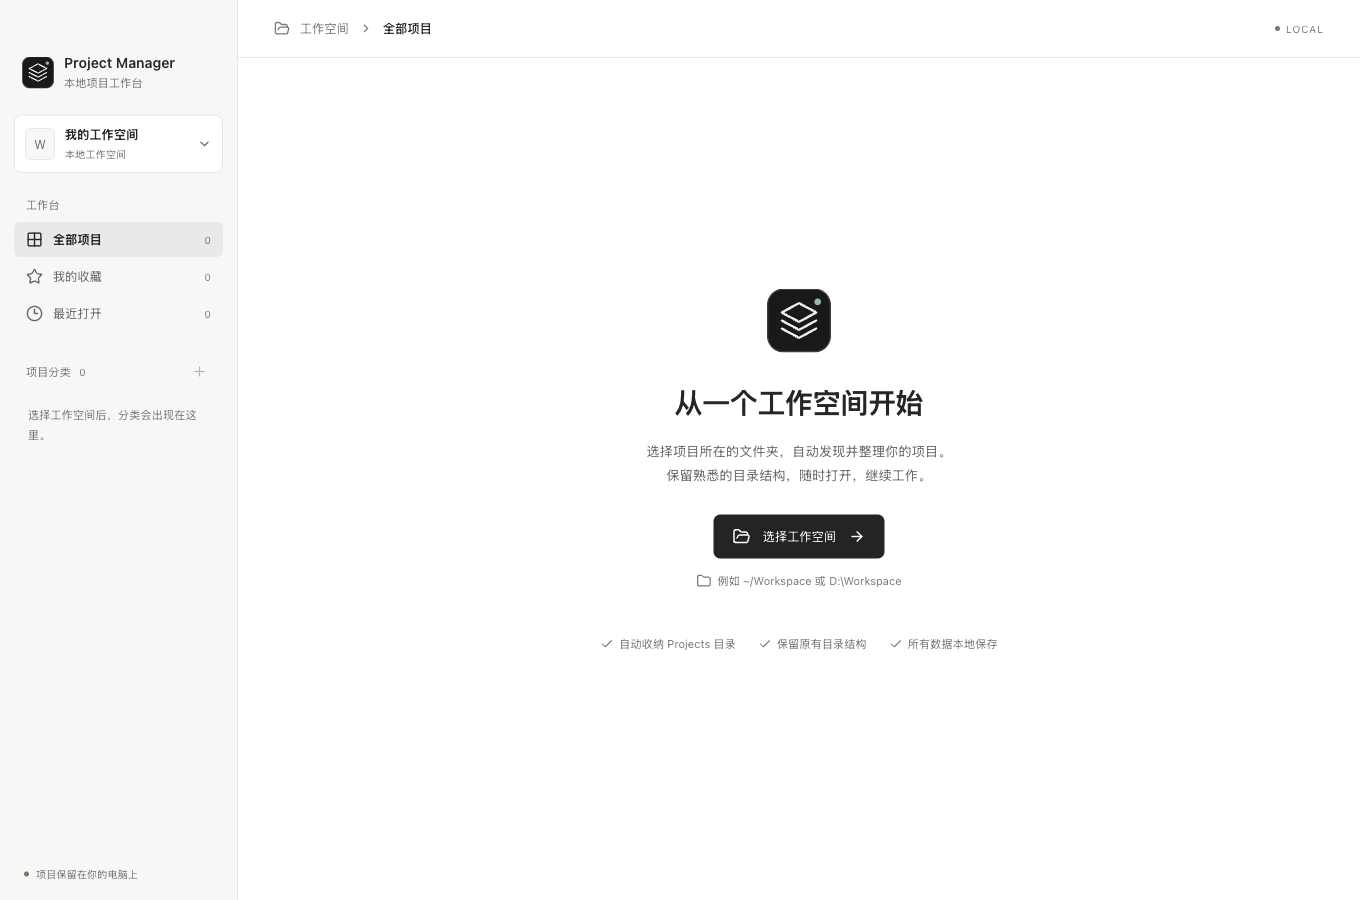
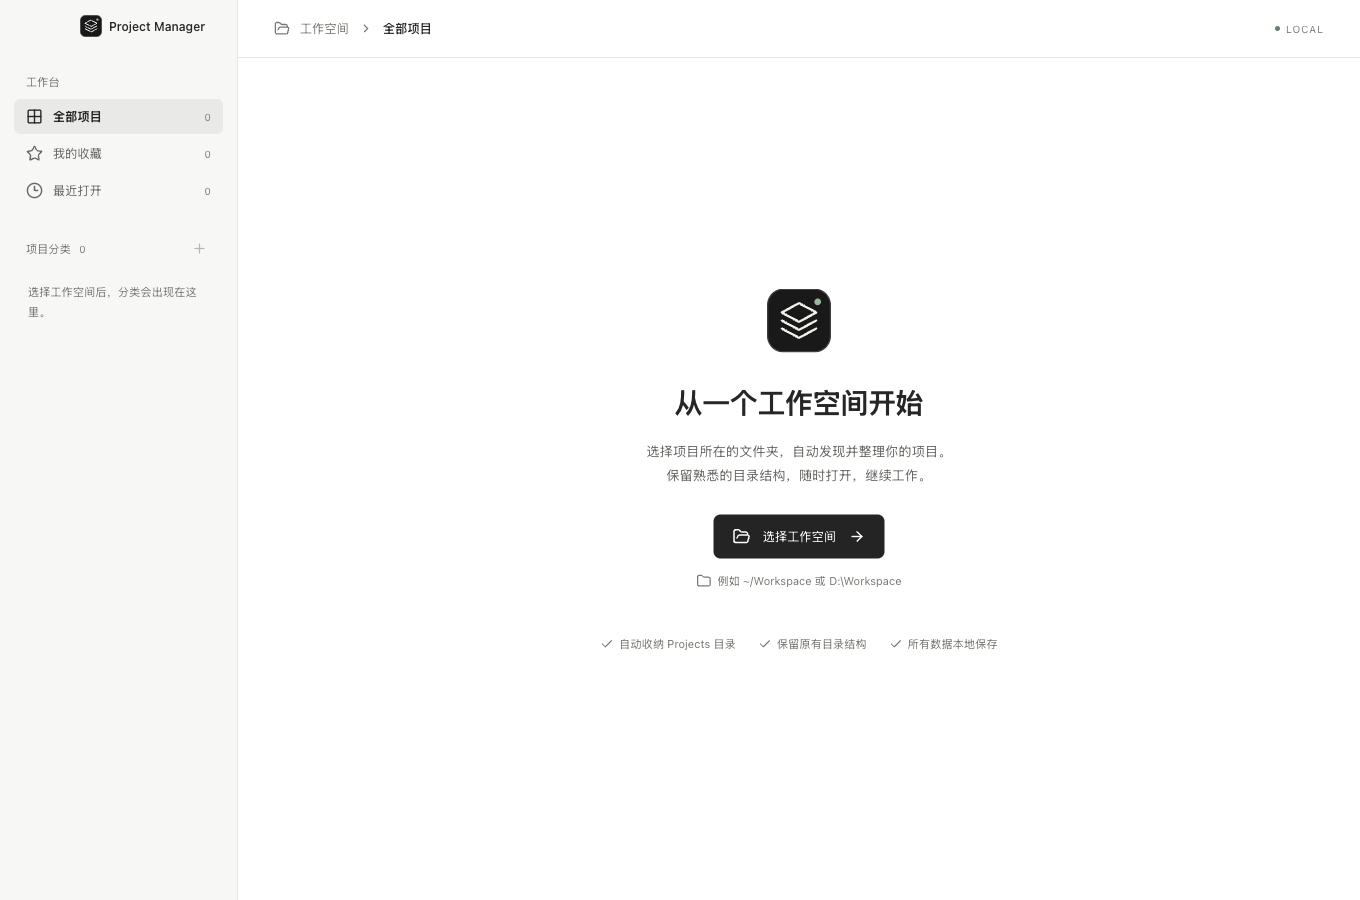
Align sidebar branding with native window controls and simplify workspace access

diff --git a/src/styles.css b/src/styles.css
@@ -112,85 +112,40 @@ h3 {
   inset: 0 auto 0 0;
   padding: 0 14px 12px;
 }
-.sidebar-drag {
-  height: 26px;
-  -webkit-app-region: drag;
-  flex-shrink: 0;
-}
-.platform-darwin .sidebar-drag {
-  height: 42px;
-}
 .brand {
   display: flex;
   align-items: center;
-  gap: 10px;
-  font-size: 14px;
-  font-weight: 600;
-  padding: 12px 8px 24px;
+  gap: 8px;
+  height: 52px;
+  min-height: 52px;
+  padding: 0 0 0 8px;
+  margin-bottom: 22px;
+  margin-right: -8px;
+  -webkit-app-region: drag;
+}
+.platform-darwin .brand {
+  padding-left: 66px;
+  gap: 7px;
 }
 .brand-mark {
   display: grid;
   place-items: center;
-  width: 32px;
-  height: 32px;
-  color: var(--text);
+  width: 22px;
+  height: 22px;
+  flex-shrink: 0;
 }
 .brand-mark img,
 .welcome-icon img {
   display: block;
 }
-.brand span:not(.brand-mark) {
-  display: block;
-  font-size: 11px;
-  font-weight: 400;
-  color: var(--muted);
-  margin-top: 5px;
-}
-.workspace-switch {
-  display: flex;
-  align-items: center;
-  gap: 10px;
-  border: 1px solid var(--border);
-  border-radius: 8px;
-  width: 100%;
-  padding: 11px 10px;
-  text-align: left;
-  margin-bottom: 24px;
-  background: var(--surface);
-}
-.workspace-switch:hover {
-  border-color: var(--border-strong);
-}
-.workspace-avatar {
-  background: var(--surface-soft);
-  color: var(--secondary);
-  border: 1px solid var(--border);
-  border-radius: 6px;
-  width: 30px;
-  height: 32px;
-  display: grid;
-  place-items: center;
-  font-size: 12px;
-}
-.workspace-switch > span:nth-child(2) {
-  flex: 1;
-  min-width: 0;
-}
-.workspace-switch strong {
-  display: block;
+.brand-name {
   font-size: 12px;
   font-weight: 550;
+  line-height: 18px;
+  min-width: 0;
   overflow: hidden;
   text-overflow: ellipsis;
-}
-.workspace-switch small {
-  display: block;
-  font-size: 10px;
-  color: var(--muted);
-  margin-top: 4px;
-}
-.workspace-switch > svg {
-  color: var(--muted);
+  white-space: nowrap;
 }
 .nav-caption {
   color: var(--muted);
@@ -510,18 +465,6 @@ h3 {
 }
 .gray {
   --tone: var(--secondary);
-}
-.sidebar-bottom {
-  padding-top: 16px;
-  margin-top: auto;
-}
-.local-note {
-  font-size: 10px;
-  color: var(--muted);
-  padding: 12px 10px 7px;
-  display: flex;
-  align-items: center;
-  gap: 7px;
 }
 .online-dot {
   width: 5px;
@@ -1585,9 +1528,6 @@ select option {
   }
   .summary-stat {
     padding: 0 10px;
-  }
-  .workspace-summary > .text-button {
-    display: none;
   }
   .toast {
     left: calc(50% + 106px);

diff --git a/src/main.tsx b/src/main.tsx
@@ -484,23 +484,14 @@ function App() {
   return (
     <div className={`app platform-${platform} ${selectedCategory ? 'category-page' : ''}`}>
       <aside className="sidebar">
-        <div className="sidebar-drag" />
-        <div className="brand">
+        <header className="brand">
           <span className="brand-mark">
-            <img src={logo} alt="BK Project Manager" width="32" height="32" />
+            <img src={logo} alt="BK Project Manager" width="22" height="22" />
           </span>
-          <div>
-            Project Manager<span>本地项目工作台</span>
-          </div>
-        </div>
-        <button className="workspace-switch" onClick={() => setSettings(true)}>
-          <span className="workspace-avatar">W</span>
-          <span>
-            <strong>{state?.settings.workspace?.split(/[\\/]/).pop() || '我的工作空间'}</strong>
-            <small>本地工作空间</small>
+          <span className="brand-name" title="Project Manager">
+            Project Manager
           </span>
-          <ChevronDown size={15} />
-        </button>
+        </header>
         <div className="nav-caption">工作台</div>
         <nav aria-label="项目导航">
           <button
@@ -555,12 +546,6 @@ function App() {
           ))}
           {!categories.length && <p className="sidebar-hint">选择工作空间后，分类会出现在这里。</p>}
         </nav>
-        <div className="sidebar-bottom">
-          <div className="local-note">
-            <span className="online-dot" />
-            项目保留在你的电脑上
-          </div>
-        </div>
       </aside>
       <main>
         {!selectedCategory && (
@@ -672,10 +657,6 @@ function App() {
                       <strong>{categories.length}</strong>
                       <span>个分类</span>
                     </div>
-                    <button className="text-button" onClick={() => setSettings(true)}>
-                      管理工作空间
-                      <ArrowUpRight size={14} />
-                    </button>
                   </section>
                 </>
               )}

diff --git a/README.en.md b/README.en.md
@@ -160,6 +160,8 @@ npm run dev
 
 Click **Rescan** after adding or moving projects. You can switch workspaces through **Settings…** in the native menu (macOS: app menu, `⌘,`; Windows: File menu, `Ctrl+,`).
 
+The sidebar starts with a single row containing the app icon and name, aligned with the native traffic lights on macOS. Workspace management is available through Settings in the native menu.
+
 ### Creating categories and projects (source preview)
 
 - Click **＋** beside the sidebar's category heading, enter a name and choose a color and icon. The app creates `Workspace/CategoryName/Projects/`.

diff --git a/README.md b/README.md
@@ -160,6 +160,8 @@ npm run dev
 
 新增或移动项目后，点击 **重新扫描**。更换工作空间可在系统菜单的 **设置…** 中完成（macOS：应用菜单，`⌘,`；Windows：文件菜单，`Ctrl+,`）。
 
+侧栏顶部只保留一行图标与应用名称，macOS 下与红黄绿窗口按钮对齐；工作空间管理统一放在系统菜单的设置中。
+
 ### 新增分类与项目（源码预览版）
 
 - 点击左侧「项目分类」旁的 **＋**，输入名称并选择颜色、图标。应用创建 `工作空间/分类名称/Projects/`。
